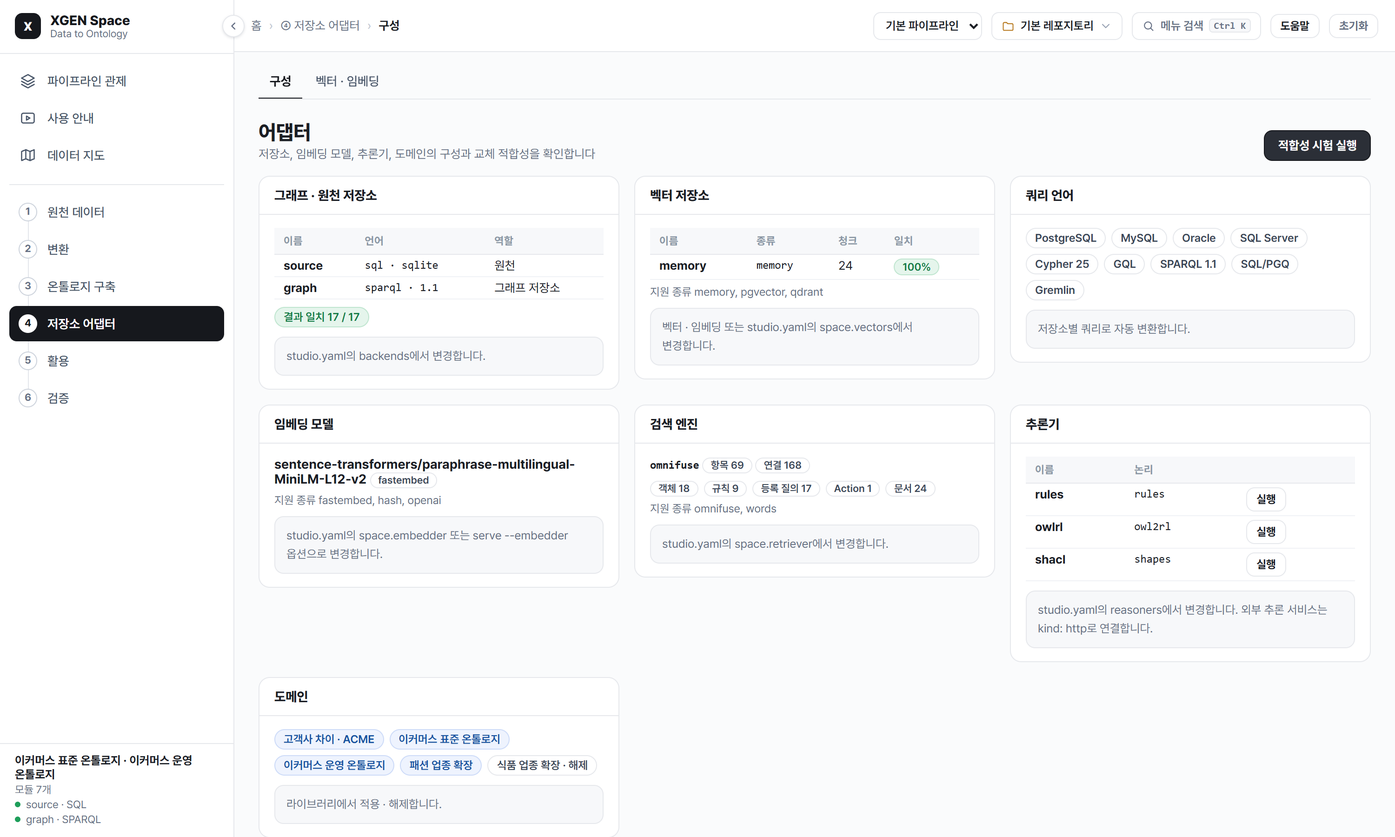
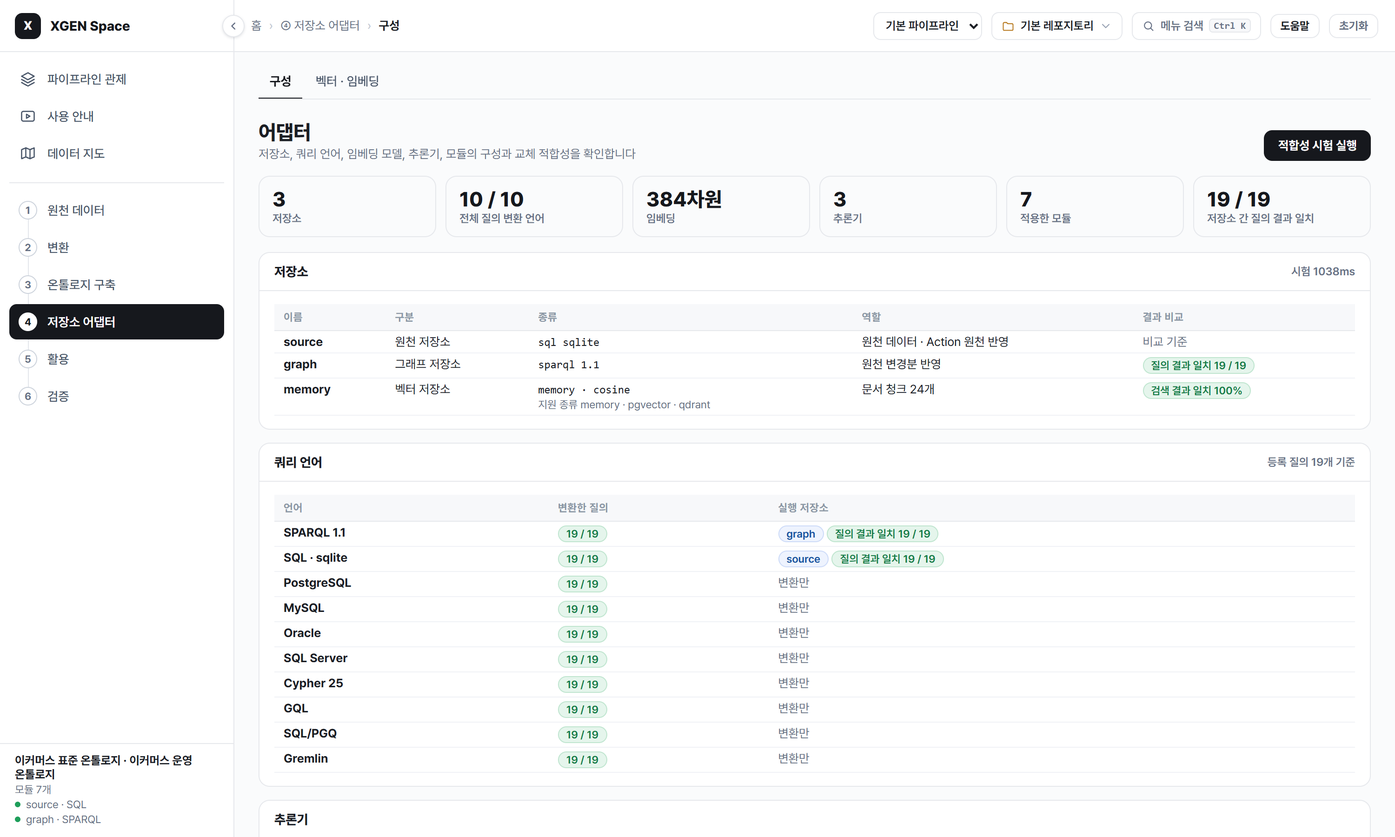
Show what the adapters screen measured, not a list of names
The screen listed query languages from a fixed table and, under its domain
card, the example library's modules, which stayed on the page as switched-off
chips even in a pipeline drafted from other data, so it read as fixed text.
Cards were short and uneven in a grid, with a configuration note under each.

Measured
- Every registered query is compiled for each language when the screen opens;
  a language shows how many it carries, why any cannot be, and which store
  reads it
- The conformance tests run once on opening, so stores, languages and
  reasoners show a result instead of a dash; the button runs them again
- The check runs each reasoner once and hands the runs to the agreement, so
  an OWL RL engine is not run twice
- Modules are the ones the current pipeline is built from, read from the
  library state with kind, version and contents; the rest is a count with a
  link to the library

Layout
- A summary row, then stores, languages and reasoners beside modules and
  embedding and search; the reasoners card joins the shorter column as drawn
- Two columns from 1600px wide, one below; tables scroll inside their card
  on a phone
- The configuration notes under each card moved to the screen's help
- One word for each store kind the configuration opens, shared with the data
  origin chips

The README image is rendered by the tool again, which now waits for the
tests the screen runs itself instead of pressing the button.

diff --git a/src/xgen_space/web/static/app.js b/src/xgen_space/web/static/app.js
@@ -72,6 +72,7 @@
   const findingText = (f) => `${FIX[f.kind] ? `<div style="font-size:12.5px">${esc(FIX[f.kind])}</div>` : ''}<div class="mono muted" style="font-size:12px">${esc(f.detail)}</div>`;
   const STATUS = { pending: ['warn', '승인 대기'], stale: ['warn', '실행 전 재검사 실패'], rejected: ['bad', '반려'], executed: ['ok', '원천 반영'],
     failed: ['bad', '외부 호출 실패 · 원천 복원'], rolled_back: ['b', '되돌림'] };
+  const BACKEND_KIND = { sqlite: 'SQLite', postgres: 'PostgreSQL', mysql: 'MySQL', oracle: 'Oracle', mssql: 'SQL Server', dbapi: 'DB-API', rdflib: 'RDF', sparql: 'SPARQL 엔드포인트', neo4j: 'Neo4j', gremlin: 'Gremlin Server', gateway: '플랫폼 연결' };  // the kinds config.open_backend opens
   const CHANGE_STATUS = { pending: 'warn', approved: 'ok', rejected: 'bad' };
   const TEXT_LANG = [['sparql', 'SPARQL 1.1'], ['cypher', 'Cypher'], ['ir', '온톨로지 질의 IR (JSON)']];
   const STEP = {
@@ -176,7 +177,9 @@
       '설치형에서는 Qdrant, pgvector 주소를 입력해 저장소를 추가합니다. 추가한 저장소에 문서를 색인합니다.',
       '문서 검색 검증은 질문별 정답 문서가 상위 결과에 포함되는지 확인합니다. 질문은 구성 파일의 space.checks 항목에서 지정합니다.']],
     ['adapters', '교체 가능한 구성 요소를 확인합니다.', [
-      '그래프 · 원천 저장소, 벡터 저장소, 쿼리 언어, 임베딩 모델, 추론기, 도메인을 표시합니다. 카드 하단에 변경 방법을 표시합니다.',
+      '저장소, 쿼리 언어, 적용한 모듈, 임베딩 모델 · 검색 엔진, 추론기를 표시합니다.',
+      '쿼리 언어는 등록 질의를 언어별로 변환한 결과를 표시합니다. 변환하지 못한 질의는 사유를 함께 표시합니다.',
+      '저장소, 임베딩 모델, 검색 엔진, 추론기는 구성 파일의 backends, space, reasoners 항목에서 변경합니다. 모듈은 [라이브러리]에서 적용 · 해제합니다.',
       '[적합성 시험 실행]을 선택하면 같은 질의와 검색을 저장소별로 실행해 결과를 비교합니다.',
       '추론기의 [실행]을 선택하면 현재 데이터에서 유도한 사실 수와 발견 항목을 표시합니다.']],
     ['search', '판정, 데이터, 문서를 한 번에 찾고 근거를 확인합니다.', [
@@ -310,7 +313,7 @@
   const S = {
     st: null, tab: 'library', kind: 'all', impact: null, pos: {}, sel: null, gsel: null, obj: null,
     ru: null, met: {}, sp: null, sr: { text: '', res: null, busy: false, more: null, moreBusy: false }, dg: null, dgsel: null, dsec: null, dq: null, docpos: {},
-    vs: { kind: 'qdrant', url: '' }, gw: { url: '', connection: '', dialect: 'postgres', token: '' }, ad: null, adrep: null, adbusy: false, adr: null, amap: null, mapn: null, mapsel: null, mappos: {}, conn: null, help: false,
+    vs: { kind: 'qdrant', url: '' }, gw: { url: '', connection: '', dialect: 'postgres', token: '' }, ad: null, adrep: null, adbusy: false, adrs: null, amap: null, mapn: null, mapsel: null, mappos: {}, conn: null, help: false,
     q: { mode: 'list', name: null, params: {}, role: '', principal: {}, target: 'sql:postgres', res: null,
       lang: 'sparql', text: '', dirty: false, question: '', busy: false },
     d: { name: null, key: null, keys: {}, res: null, proposal: null, params: {}, role: '', audit: [], busy: false },
@@ -500,7 +503,8 @@
     if (S.tab === 'docs') mountDocs();
     if (S.tab === 'rules' && !S.ru) api('rules').then((x) => { S.ru = x; render(); }).catch(fail);
     if ((S.tab === 'vectors' || S.tab === 'search') && !S.sp) loadSpace();
-    if (S.tab === 'adapters' && !S.ad) api('adapters').then((x) => { S.ad = x; render(); }).catch(fail);
+    if (S.tab === 'adapters' && S.ad) balanceAdapters();
+    if (S.tab === 'adapters' && !S.ad) api('adapters').then((x) => { S.ad = x; render(); if (!S.adrep && !S.adbusy) adCheck(false); }).catch(fail);
     if (S.tab === 'connect' && !S.conn) api('integrations').then((x) => { S.conn = x; render(); }).catch(fail);
     if (S.tab === 'map') {
       if (!S.amap) api('space/map').then((x) => { S.amap = x; render(); }).catch((e) => { S.amap = { error: e.message }; render(); });
@@ -1022,29 +1026,86 @@
       <div class="card" style="margin-top:14px"><div class="ch">색인한 문서<div class="right"><a class="btn sm" href="#catalog">문서 추가</a></div></div><div class="cb"><table class="tight"><tr><th>문서</th><th>출처</th><th>절</th><th>청크</th></tr>${docs}</table></div></div>${check}`;
   }
 
+  async function adCheck(say) {  // the page runs it once on opening; the button runs it again
+    S.adbusy = true; render();
+    try { S.adrep = await api('adapters/check', {}); S.adrs = null; if (say) toast('적합성 시험을 마쳤습니다.'); } catch (e) { fail(e); }
+    S.adbusy = false; render();
+  }
+
+  function balanceAdapters() {  // the reasoners card joins whichever column is shorter as drawn, when the two sit side by side
+    const cols = [...document.querySelectorAll('.adcol')], card = $('#adreas');
+    if (cols.length !== 2 || !card || cols[0].offsetTop !== cols[1].offsetTop) return;
+    card.remove();
+    (cols[0].offsetHeight <= cols[1].offsetHeight ? cols[0] : cols[1]).appendChild(card);
+  }
+
   function viewAdapters() {
     const a = S.ad;
-    const head = pageHead('어댑터', '저장소, 임베딩 모델, 추론기, 도메인의 구성과 교체 적합성을 확인합니다', `<button class="btn primary" data-act="adcheck"${S.adbusy ? ' disabled' : ''}>${S.adbusy ? '<span class="spin"></span>시험 중' : '적합성 시험 실행'}</button>`);
+    const head = pageHead('어댑터', '저장소, 쿼리 언어, 임베딩 모델, 추론기, 모듈의 구성과 교체 적합성을 확인합니다', `<button class="btn primary" data-act="adcheck"${S.adbusy ? ' disabled' : ''}>${S.adbusy ? '<span class="spin"></span>시험 중' : '적합성 시험 실행'}</button>`);
     if (!a) return `${head}<div class="empty"><span class="spin"></span>구성을 읽는 중입니다.</div>`;
     const rep = S.adrep;
-    const lane = (title, how, body) => `<div class="card"><div class="ch">${esc(title)}</div><div class="cb">${body}<div class="hint" style="margin-top:10px">${esc(how)}</div></div></div>`;
-    const graphRep = rep && rep.graph ? `<span class="chip ${rep.graph.agree === rep.graph.queries ? 'ok' : 'bad'}">결과 일치 ${rep.graph.agree} / ${rep.graph.queries}</span>` : '';
-    const backends = `<table class="tight"><tr><th>이름</th><th>언어</th><th>역할</th></tr>${a.backends.map((b) => `<tr><td><b>${esc(b.name)}</b></td><td class="mono">${esc(b.language)}${b.dialect ? ` · ${esc(b.dialect)}` : ''}</td><td>${b.source ? '원천' : '그래프 저장소'}</td></tr>`).join('')}</table>${graphRep ? `<div class="chips" style="margin-top:8px">${graphRep}</div>` : ''}`;
-    const langs = `<div class="chips">${a.languages.map((l) => `<span class="chip">${esc(l)}</span>`).join('')}</div>`;
-    const vec = `<table class="tight"><tr><th>이름</th><th>종류</th><th>청크</th>${rep ? '<th>일치</th>' : ''}</tr>${a.vectors.map((v) => { const r = rep && rep.vectors[v.name]; return `<tr><td><b>${esc(v.name)}</b></td><td class="mono">${esc(v.kind)}</td><td>${show(v.count)}</td>${rep ? `<td>${r ? (r.error ? `<span class="chip sm bad">${esc(r.error)}</span>` : `<span class="chip sm ${r.agree ? 'ok' : 'bad'}">${Math.round(r.overlap * 100)}%</span>`) : '-'}</td>` : ''}</tr>`; }).join('')}</table><div class="muted" style="font-size:12px;margin-top:6px">지원 종류 ${esc(a.vector_kinds.join(', '))}</div>`;
-    const emb = `<div><b>${esc(a.embedder.name)}</b> <span class="chip sm">${esc(a.embedder.kind)}</span></div><div class="muted" style="font-size:12px;margin-top:6px">지원 종류 ${esc(a.embedder_kinds.join(', '))}</div>`;
-    const reas = `<table class="tight"><tr><th>이름</th><th>논리</th><th></th></tr>${a.reasoners.map((r) => `<tr><td><b>${esc(r.name)}</b></td><td class="mono">${esc(r.logic)}</td><td>${r.missing ? `<span class="chip sm warn">${esc(r.missing)}</span>` : `<button class="btn sm" data-act="adreason" data-name="${esc(r.name)}">실행</button>`}</td></tr>`).join('')}</table>${S.adr ? `<div class="hint" style="margin-top:8px">${esc(S.adr.reasoner)}: ${S.adr.error ? esc(S.adr.error) : `유도한 사실 ${show(S.adr.count)}건, 발견 ${show(S.adr.findings.length)}건, ${S.adr.ms}ms`}</div>` : ''}`;
-    const find = `<div><b class="mono">${esc(a.retriever.kind)}</b> <span class="chip sm">항목 ${esc(count(a.retriever.entries))}</span> <span class="chip sm">연결 ${esc(count(a.retriever.links))}</span></div><div class="chips" style="margin-top:8px">${Object.entries(a.retriever.by_kind).map(([k, n]) => `<span class="chip sm">${esc(k)} ${esc(count(n))}</span>`).join('')}</div><div class="muted" style="font-size:12px;margin-top:6px">지원 종류 ${esc(a.retriever.kinds.join(', '))}</div>`;
-    const dom = `<div class="chips">${a.domains.map((d) => `<span class="chip${d.on ? ' b' : ''}">${esc(d.label)}${d.on ? '' : ' · 해제'}</span>`).join('')}</div>`;
-    return `${head}<div class="grid" style="grid-template-columns:repeat(auto-fit,minmax(340px,1fr));align-items:start">
-      ${lane('그래프 · 원천 저장소', '구성 파일의 backends 항목에서 변경합니다.', backends)}
-      ${lane('벡터 저장소', '벡터 · 임베딩 화면 또는 구성 파일의 space.vectors 항목에서 변경합니다.', vec)}
-      ${lane('쿼리 언어', '저장소별 쿼리로 자동 변환합니다.', langs)}
-      ${lane('임베딩 모델', '구성 파일의 space.embedder 항목에서 변경합니다.', emb)}
-      ${lane('검색 엔진', '구성 파일의 space.retriever 항목에서 변경합니다.', find)}
-      ${lane('추론기', '구성 파일의 reasoners 항목에서 변경합니다. 외부 추론 서비스는 kind: http로 연결합니다.', reas)}
-      ${lane('도메인', '라이브러리에서 적용 · 해제합니다.', dom)}
-    </div>`;
+    const lib = (S.st && S.st.library) || [];
+    const applied = lib.filter((r) => r.on);
+    const none = '<span class="muted">-</span>';
+    const wait = '<span class="muted"><span class="spin"></span>시험 중</span>';
+    const pending = (html) => (rep ? html : S.adbusy ? wait : none);  // a result cell: measured, being measured, or not yet
+    const kinds = (list) => `<div class="muted" style="font-size:11.5px;margin-top:2px">지원 종류 ${esc(list.join(' · '))}</div>`;
+    const card = (title, right, body, id = '') => `<div class="card"${id ? ` id="${id}"` : ''}><div class="ch">${esc(title)}${right ? `<div class="right muted" style="font-size:12px;font-weight:600">${right}</div>` : ''}</div><div class="cb"><div class="cwrap">${body}</div></div></div>`;
+    const origin = (S.st && S.st.origin && S.st.origin.backends) || {};
+    // the stores: where the source rows are, where the graph is projected, where the passages are indexed
+    const graphAgree = rep && rep.graph ? `<span class="chip sm ${rep.graph.agree === rep.graph.queries ? 'ok' : 'bad'}">질의 결과 일치 ${rep.graph.agree} / ${rep.graph.queries}</span>` : none;
+    const storeRows = a.backends.map((b) => `<tr><td><b>${esc(b.name)}</b></td><td>${b.source ? '원천 저장소' : '그래프 저장소'}</td>
+        <td>${origin[b.name] ? `${esc(BACKEND_KIND[origin[b.name]] || origin[b.name])} · ` : ''}<span class="mono">${esc(b.language)}${b.dialect && b.dialect !== origin[b.name] ? ` ${esc(b.dialect)}` : ''}</span></td>
+        <td>${b.source ? `원천 데이터${b.write ? ' · Action 원천 반영' : ''}` : (b.load ? '원천 변경분 반영' : '조회')}</td>
+        <td>${b.source ? '<span class="muted">비교 기준</span>' : pending(graphAgree)}</td></tr>`)
+      .concat(a.vectors.map((v) => {
+        const r = rep && rep.vectors[v.name];
+        const res = !r ? none : r.error ? `<span class="chip sm bad">${esc(r.error)}</span>` : `<span class="chip sm ${r.agree ? 'ok' : 'bad'}">검색 결과 일치 ${Math.round(r.overlap * 100)}%</span>`;
+        return `<tr><td><b>${esc(v.name)}</b></td><td>벡터 저장소</td><td><span class="mono">${esc(v.kind)} · ${esc(v.metric)}</span>${kinds(a.vector_kinds)}</td>
+          <td>${v.error ? `<span class="chip sm bad">${esc(v.error)}</span>` : `문서 청크 ${count(v.count)}개`}</td><td>${pending(res)}</td></tr>`;
+      })).join('');
+    const stores = card('저장소', rep ? `시험 ${esc(String(rep.graph_ms))}ms` : '', `<table class="tight"><tr><th>이름</th><th>구분</th><th>종류</th><th>역할</th><th>결과 비교</th></tr>${storeRows}</table>`);
+    // the languages: every registered query compiled now; a language a store reads also runs there
+    const langRows = a.languages.filter((l) => l.backends.length).concat(a.languages.filter((l) => !l.backends.length)).map((l) => {
+      const all = l.compiled === a.queries;
+      const why = l.refused.length ? `<div class="muted" style="font-size:11.5px;margin-top:2px">${l.refused.slice(0, 3).map((x) => `${esc(x.query)}: ${esc(x.error)}`).join('<br>')}</div>` : '';
+      const ran = l.backends.length ? `${l.backends.map((n) => `<span class="chip sm b">${esc(n)}</span>`).join(' ')} ${pending(graphAgree)}` : '<span class="muted">변환만</span>';
+      return `<tr><td><b>${esc(l.label)}</b></td><td><span class="chip sm ${all ? 'ok' : 'warn'}">${l.compiled} / ${a.queries}</span>${why}</td><td>${ran}</td></tr>`;
+    }).join('');
+    const langs = card('쿼리 언어', `등록 질의 ${count(a.queries)}개 기준`, `<table class="tight"><tr><th>언어</th><th>변환한 질의</th><th>실행 저장소</th></tr>${langRows}</table>`);
+    // the reasoners: each run on the projected graph; engines of one logic are compared by the test
+    const reasRows = a.reasoners.map((r) => {
+      const x = (S.adrs || {})[r.name] || (rep && rep.runs && rep.runs[r.name]);
+      const found = x && (x.found !== undefined ? x.found : (x.findings || []).length);
+      const last = x ? (x.error ? `<span class="chip sm bad">${esc(x.error)}</span>` : `유도한 사실 ${count(x.count)}건 · 발견 ${count(found)}건 · ${esc(String(x.ms))}ms`) : pending(none);
+      const g = rep && rep.reasoners && rep.reasoners[r.logic];  // engines of one logic, compared only when there are two or more
+      const same = g && Object.keys(g.engines).length > 1 ? ` <span class="chip sm ${g.same ? 'ok' : 'bad'}">${g.same ? '같은 논리 엔진과 결과 일치' : '같은 논리 엔진과 결과 다름'}</span>` : '';
+      return `<tr><td><b>${esc(r.name)}</b></td><td class="mono">${esc(r.logic)}</td><td style="font-size:12.5px">${last}${same}</td>
+        <td style="text-align:right">${r.missing ? `<span class="chip sm warn">${esc(r.missing)}</span>` : `<button class="btn sm" data-act="adreason" data-name="${esc(r.name)}">실행</button>`}</td></tr>`;
+    }).join('');
+    const reas = card('추론기', '', `<table class="tight"><tr><th>이름</th><th>논리</th><th>최근 실행</th><th></th></tr>${reasRows}</table>`, 'adreas');
+    // the modules this pipeline is built from, read from the same state as the library
+    const modRows = applied.map((r) => `<tr><td><b>${esc(r.label || r.name)}</b><div class="muted mono" style="font-size:11.5px">${esc(r.name)}</div></td>
+        <td style="white-space:nowrap"><span class="kind"><i style="background:${esc(r.color)}"></i>${esc(r.kind_label)}</span></td>
+        <td class="mono" style="white-space:nowrap">${esc(r.version)}</td><td class="muted" style="font-size:12.5px">${esc(counts(r.counts))}</td></tr>`).join('');
+    const idle = lib.length - applied.length;
+    const mods = card('적용한 모듈', `${idle ? `적용하지 않은 모듈 ${idle}개 · ` : ''}<a href="#library">라이브러리</a>`,
+      applied.length ? `<table class="tight"><tr><th>모듈</th><th>종류</th><th>판본</th><th>담은 요소</th></tr>${modRows}</table>` : '<div class="empty">적용한 모듈이 없습니다.</div>');
+    // the embedding model and the engine that finds definitions, documents and rules for a question
+    const ret = a.retriever;
+    const findRows = `<tr><td style="white-space:nowrap">임베딩 모델</td><td><b>${esc(a.embedder.name)}</b></td><td><span class="mono">${esc(a.embedder.kind)}</span>${kinds(a.embedder_kinds)}</td>
+        <td style="white-space:nowrap">${a.embedder.dim ? `${count(a.embedder.dim)}차원` : none}</td></tr>
+      <tr><td style="white-space:nowrap">검색 엔진</td><td><b class="mono">${esc(ret.kind)}</b></td><td>${kinds(ret.kinds)}</td>
+        <td><div class="chips">${Object.entries(ret.by_kind).map(([k, n]) => `<span class="chip sm">${esc(k)} ${esc(count(n))}</span>`).join('')}<span class="chip sm">연결 ${esc(count(ret.links))}</span></div></td></tr>`;
+    const find = card('임베딩 · 검색', '', `<table class="tight"><tr><th>구분</th><th>이름</th><th>종류</th><th>규모</th></tr>${findRows}</table>`);
+    const langsOk = a.languages.filter((l) => l.compiled === a.queries).length;
+    const tile = (n, l) => `<div class="stat"><b>${n}</b><span>${esc(l)}</span></div>`;
+    const stats = [tile(count(a.backends.length + a.vectors.length), '저장소'), tile(`${langsOk} / ${a.languages.length}`, '전체 질의 변환 언어'),
+      tile(a.embedder.dim ? `${count(a.embedder.dim)}차원` : '-', '임베딩'), tile(count(a.reasoners.length), '추론기'), tile(count(applied.length), '적용한 모듈'),
+      tile(rep && rep.graph ? `${rep.graph.agree} / ${rep.graph.queries}` : S.adbusy ? '<span class="spin"></span>' : '-', '저장소 간 질의 결과 일치')].join('');
+    return `${head}<div class="stats">${stats}</div>
+      <div class="adgrid">
+        <div class="adcol">${stores}${langs}${reas}</div><div class="adcol">${mods}${find}</div></div>`;
   }
 
   function viewMap() {
@@ -1661,8 +1722,7 @@ ${controls}${body}`;
     if (o.kind === 'files') return [item('데이터 출처', '업로드 파일'), item('파일', esc(o.files.join(', ')))].join('');
     if (o.kind === 'database') return item('데이터 출처', esc(o.detail));
     const out = [item('데이터 출처', '예시 스페이스'), item('구성 파일', `<span class="mono">${esc(o.config || '')}</span>`)];
-    const kind = { sqlite: 'SQLite', postgres: 'PostgreSQL', dbapi: 'DB-API', rdflib: 'RDF', sparql: 'SPARQL 엔드포인트', neo4j: 'Neo4j' };
-    for (const [n, k] of Object.entries(o.backends || {})) out.push(item(esc(n), esc(kind[k] || k)));
+    for (const [n, k] of Object.entries(o.backends || {})) out.push(item(esc(n), esc(BACKEND_KIND[k] || k)));
     if ((o.seeds || []).length) out.push(item('Seed', esc(o.seeds.join(', '))));
     if (o.notice) out.push(`<span class="chip warn">${esc(o.notice)}</span>`);
     return out.join('');
@@ -3590,7 +3650,7 @@ ${controls}${body}`;
     } catch (e) { fail(e); }
   }
 
-  const spaceChanged = () => { Object.assign(S, { ru: null, met: {}, sp: null, dg: null, dq: null, dsec: null, amap: null, mapn: null, ad: null, adrep: null }); };
+  const spaceChanged = () => { Object.assign(S, { ru: null, met: {}, sp: null, dg: null, dq: null, dsec: null, amap: null, mapn: null, ad: null, adrep: null, adrs: null }); };
   const ACT = {
     helpopen: () => { S.help = true; paintLayer(); },
     helpclose: () => { S.help = false; paintLayer(); },
@@ -3622,18 +3682,14 @@ ${controls}${body}`;
       S.dread = ''; render();
     },
     vstoreadd: async () => {
-      try { S.sp = await api('space/store', { op: 'add', kind: S.vs.kind, name: S.vs.kind, url: S.vs.url }); S.ad = null; toast('벡터 저장소를 추가하고 문서를 색인했습니다.'); render(); } catch (e) { fail(e); }
+      try { S.sp = await api('space/store', { op: 'add', kind: S.vs.kind, name: S.vs.kind, url: S.vs.url }); S.ad = null; S.adrep = null; toast('벡터 저장소를 추가하고 문서를 색인했습니다.'); render(); } catch (e) { fail(e); }
     },
     vstoredel: async (t) => {
-      try { S.sp = await api('space/store', { op: 'remove', name: t.dataset.name }); S.ad = null; toast('벡터 저장소를 제거했습니다.'); render(); } catch (e) { fail(e); }
+      try { S.sp = await api('space/store', { op: 'remove', name: t.dataset.name }); S.ad = null; S.adrep = null; toast('벡터 저장소를 제거했습니다.'); render(); } catch (e) { fail(e); }
     },
-    adcheck: async () => {
-      S.adbusy = true; render();
-      try { S.adrep = await api('adapters/check', {}); toast('적합성 시험을 마쳤습니다.'); } catch (e) { fail(e); }
-      S.adbusy = false; render();
-    },
+    adcheck: () => adCheck(true),
     adreason: async (t) => {
-      try { S.adr = await api('reasoner', { name: t.dataset.name }); render(); } catch (e) { fail(e); }
+      try { S.adrs = { ...(S.adrs || {}), [t.dataset.name]: await api('reasoner', { name: t.dataset.name }) }; render(); } catch (e) { fail(e); }
     },
     reset: async () => {
       if (!window.confirm(S.st.data.kept ? '변경 내용을 삭제하고 예시 스페이스로 초기화합니다. 레포지토리의 파일은 유지됩니다.' : '업로드한 데이터와 변경 내용을 모두 삭제하고 예시 스페이스로 초기화합니다.')) return;

diff --git a/src/xgen_space/web/static/app.css b/src/xgen_space/web/static/app.css
@@ -377,6 +377,11 @@ kbd { font-family:"JetBrains Mono",Consolas,monospace; font-size:10.5px; border:
 .plink:hover { background:var(--blue-soft); }
 .cbulk { display:flex; align-items:center; gap:8px; padding:6px 10px; background:var(--blue-soft); border:1px solid var(--blue-line); border-radius:9px; font-size:12.5px; flex-wrap:wrap; }
 .cwrap { overflow-x:auto; }
+/* adapters: two columns only where both tables fit whole, one column below */
+.adgrid { display:grid; grid-template-columns:minmax(0, 1fr); gap:14px; align-items:start; flex:none; }
+@media (min-width: 1600px) { .adgrid { grid-template-columns:minmax(0, 1.1fr) minmax(0, 1fr); } }
+.adcol { display:flex; flex-direction:column; gap:14px; min-width:0; }
+.adcol .cwrap > table { min-width:560px; }
 .ctable { font-size:12.5px; min-width:880px; }
 .ctable th { background:var(--panel); color:#475467; font-size:12px; letter-spacing:0; padding:8px 8px; white-space:nowrap; }
 .ctable th.sort { cursor:pointer; user-select:none; }

diff --git a/src/xgen_space/web/space_api.py b/src/xgen_space/web/space_api.py
@@ -392,25 +392,39 @@ class SpaceMixin:
     # ---- ports: every kind of thing that can be swapped, and whether it agrees ---------------------------------------
 
     def adapters(self) -> dict:
+        from xgen_space.compile.base import CompileError
+        from xgen_space.compile.sql import _NAMES as SQL_NAMES
         from xgen_space.embed import _KINDS as EMBEDDERS
         from xgen_space.preview import TARGETS
 
         self._sync_space()
         st = self.studio
         sp = self.space.state()
+
+        def target(lang: str, dialect: str) -> str:  # the language a store reads, named as the compilers are
+            return f"sql:{SQL_NAMES.get(dialect, dialect) or 'postgres'}" if lang == "sql" else lang
+
         backends = [{"name": n, "language": b.capabilities.language, "dialect": b.capabilities.dialect, "source": n == st.source,
-                     "write": b.capabilities.write, "load": b.capabilities.load} for n, b in st.backends.items()]
-        return {"backends": backends, "languages": [label for _, label in TARGETS], "vectors": sp["stores"],
+                     "write": b.capabilities.write, "load": b.capabilities.load,
+                     "target": target(b.capabilities.language, b.capabilities.dialect)} for n, b in st.backends.items()]
+        # every registered query compiled now, so a language shows what it can carry, not only that it is known
+        labels = {target(*t.split(":", 1)) if t.startswith("sql:") else t: label for t, label in TARGETS}
+        order = list(labels) + [b["target"] for b in backends if b["target"] not in labels]
+        languages = []
+        for t in dict.fromkeys(order):
+            refused = []
+            for q in st.onto.queries:
+                try:
+                    st.translate(q, t)
+                except CompileError as e:
+                    refused.append({"query": q, "error": str(e)})
+            label = labels.get(t) or (f"SQL · {t.split(':', 1)[1]}" if t.startswith("sql:") else t)
+            languages.append({"id": t, "label": label, "compiled": len(st.onto.queries) - len(refused),
+                              "refused": refused, "backends": [b["name"] for b in backends if b["target"] == t]})
+        return {"backends": backends, "languages": languages, "queries": len(st.onto.queries), "vectors": sp["stores"],
                 "vector_kinds": known_kinds(), "embedder": sp["embedder"], "embedder_kinds": sorted(EMBEDDERS),
                 "retriever": self.space.knowledge(st.onto, self._terms()).describe(),
-                "reasoners": [r.describe() for r in st.reasoners.values()], "domains": self._domains(),
-                "can_connect": self.data.allow_connect}
-
-    def _domains(self) -> list[dict]:
-        comp = self.studio.composition
-        on = {m.name for m in comp.modules} if comp else set()
-        return [{"name": r["name"], "label": r.get("label") or r["name"], "kind": r["kind"], "on": r["name"] in on}
-                for r in self._library_rows if r["kind"] in ("domain", "industry", "customer")]
+                "reasoners": [r.describe() for r in st.reasoners.values()], "can_connect": self.data.allow_connect}
 
     def adapters_check(self) -> dict:
         """The tests that make swapping safe, run now on what this space holds."""
@@ -429,8 +443,12 @@ class SpaceMixin:
         rep = conformance(sp.stores, points, queries).to_dict() if points else {"stores": {}, "cases": []}
         started = time.perf_counter()
         graph = st.conformance().summary() if len(st.backends) > 1 else None
-        return {"vectors": rep["stores"], "graph": graph, "graph_ms": round((time.perf_counter() - started) * 1000),
-                "reasoners": agreement(st.reasoners, st.onto, st.projection) if st.projection is not None else {}}
+        graph_ms = round((time.perf_counter() - started) * 1000)
+        runs = {n: r.run(st.onto, st.projection) for n, r in st.reasoners.items()
+                if not r.available()} if st.projection is not None else {}
+        return {"vectors": rep["stores"], "graph": graph, "graph_ms": graph_ms,
+                "runs": {n: {"count": len(i.derived), "found": len(i.findings), "ms": i.ms, "error": i.error} for n, i in runs.items()},
+                "reasoners": agreement(st.reasoners, st.onto, st.projection, runs) if st.projection is not None else {}}
 
     def reasoner_run(self, name: str) -> dict:
         st = self.studio

diff --git a/src/xgen_space/reason/port.py b/src/xgen_space/reason/port.py
@@ -196,12 +196,14 @@ def open_reasoners(spec: dict | None) -> dict[str, Reasoner]:
     return {k: open_reasoner({"kind": k}) for k in ("rules", "owlrl", "shacl")}
 
 
-def agreement(reasoners: dict[str, Reasoner], onto: Ontology, projection: Projection) -> dict[str, Any]:
-    """Engines of one logic on the same data: the same facts, or what each found that the other did not."""
+def agreement(reasoners: dict[str, Reasoner], onto: Ontology, projection: Projection,
+              ran: dict[str, Inference] | None = None) -> dict[str, Any]:
+    """Engines of one logic on the same data: the same facts, or what each found that the other did not.
+    `ran` holds inferences already made on this data, so an engine is not run twice."""
     groups: dict[str, dict[str, Inference]] = {}
     for n, r in reasoners.items():
         if r.logic and r.logic not in ("rules", "shapes", "external") and not r.available():
-            groups.setdefault(r.logic, {})[n] = r.run(onto, projection)
+            groups.setdefault(r.logic, {})[n] = (ran or {}).get(n) or r.run(onto, projection)
     out = {}
     for logic, runs in groups.items():
         ok = {n: set(i.derived) for n, i in runs.items() if not i.error}

diff --git a/tests/test_ports.py b/tests/test_ports.py
@@ -266,9 +266,12 @@ def test_the_page_reads_one_space_across_pipelines(session):
 def test_the_page_shows_ports_map_and_document_ontology(session):
     a = session.adapters()
     assert {b["name"] for b in a["backends"]} == {"source", "graph"} and "qdrant" in a["vector_kinds"]
-    assert any(d["name"] == "commerce" and d["on"] for d in a["domains"])
+    langs = {x["id"]: x for x in a["languages"]}  # every registered query compiled for every language, measured now
+    assert langs["sparql"]["backends"] == ["graph"] and langs["sql:sqlite"]["backends"] == ["source"]
+    assert all(x["compiled"] + len(x["refused"]) == a["queries"] for x in a["languages"]) and "sql:tsql" in langs
     rep = session.adapters_check()
     assert rep["vectors"]["memory"]["agree"] and rep["graph"]["agree"] == rep["graph"]["queries"]
+    assert rep["runs"]["rules"]["count"] > 0 and set(rep["runs"]) == {r["name"] for r in a["reasoners"] if not r["missing"]}
     assert session.reasoner_run("rules")["count"] > 0
     with pytest.raises(LookupError):
         session.reasoner_run("nothing")

diff --git a/tools/render_screens.py b/tools/render_screens.py
@@ -90,11 +90,12 @@ def live_screens(page, base: str, out: Path) -> None:
     page.wait_for_function("() => !document.querySelector('#main .spin') && document.querySelectorAll('#main .card').length > 1", timeout=30000)
     page.wait_for_timeout(500)
     page.screenshot(path=str(out / "search.png"))
-    page.goto(base + "/#adapters")
-    page.wait_for_selector("[data-act=adcheck]")
-    page.click("[data-act=adcheck]")
-    page.wait_for_function("() => !document.querySelector('[data-act=adcheck]').disabled", timeout=60000)
-    page.wait_for_function("() => document.getElementById('toast').hidden", timeout=8000)
+    adapters_screen(page, base, out)
+
+
+def adapters_screen(page, base: str, out: Path) -> None:
+    page.goto(base + "/#adapters")  # the page runs the conformance tests once on opening
+    page.wait_for_function("() => document.querySelector('#main .stats') && !document.querySelector('#main .spin')", timeout=90000)
     page.wait_for_timeout(400)
     page.screenshot(path=str(out / "adapters.png"))
 

diff --git a/CHANGELOG.md b/CHANGELOG.md
@@ -28,6 +28,9 @@
   `/v1/record` one object by key; MCP gains `get_record`, and `list_proposals` gives an agent with a role only its own requests.
 - A role can list the documents it reads (`documents:`); search, answers and the document list keep to them. The role form has them.
 - The audit trail names the module versions and the matched rules, and an agent's decisions, answers and functions go into it.
+- The adapters screen shows what was measured, not what is known: every registered query compiled for each language (with the reason
+  for any that cannot be), the stores' agreement, each reasoner's run, and the modules the current pipeline is built from instead of
+  the example library's names. The tests run once when the screen opens; the configuration notes moved to help.
 - `{@name}` inside a rule's output text puts the named value in force there.
 - Fixed: a decision table read a database amount as a Decimal, which the ZEN engine refused, so the page always said ZEN failed for it.
 - The page: requests that ran stay listed with their rollback after the page is left; a request names who made it, a person or an

diff --git a/README.md b/README.md
@@ -156,7 +156,7 @@ The sidebar follows the data from raw files to checked answers. A stage's screen
 | | 정의 관리 · 권한 | Change what each role reads, runs and requests, and which properties it sees masked |
 | | 라이브러리 | Apply and remove modules, edit a module's file, review and approve changes |
 | ④ 저장소 어댑터 | 벡터 · 임베딩 | See the embedding model, the vector stores and whether questions find their documents |
-| | 구성 | See every swappable part, and run the tests that say a swap changed nothing |
+| | 구성 | See every swappable part as measured on opening: the registered queries each language compiles, whether the stores return the same rows, what each reasoner derives, and the modules the pipeline is built from |
 | ⑤ 활용 | 통합 검색 | One question over decisions, data and documents, answered with the rule, the source values and the clause |
 | | 질의 | Run a query, see it in each language, and ask in plain language when a model is connected |
 | | 판정 · 규칙 · 판정 | Decide a case with its grounds, request an action, approve it, roll it back |
